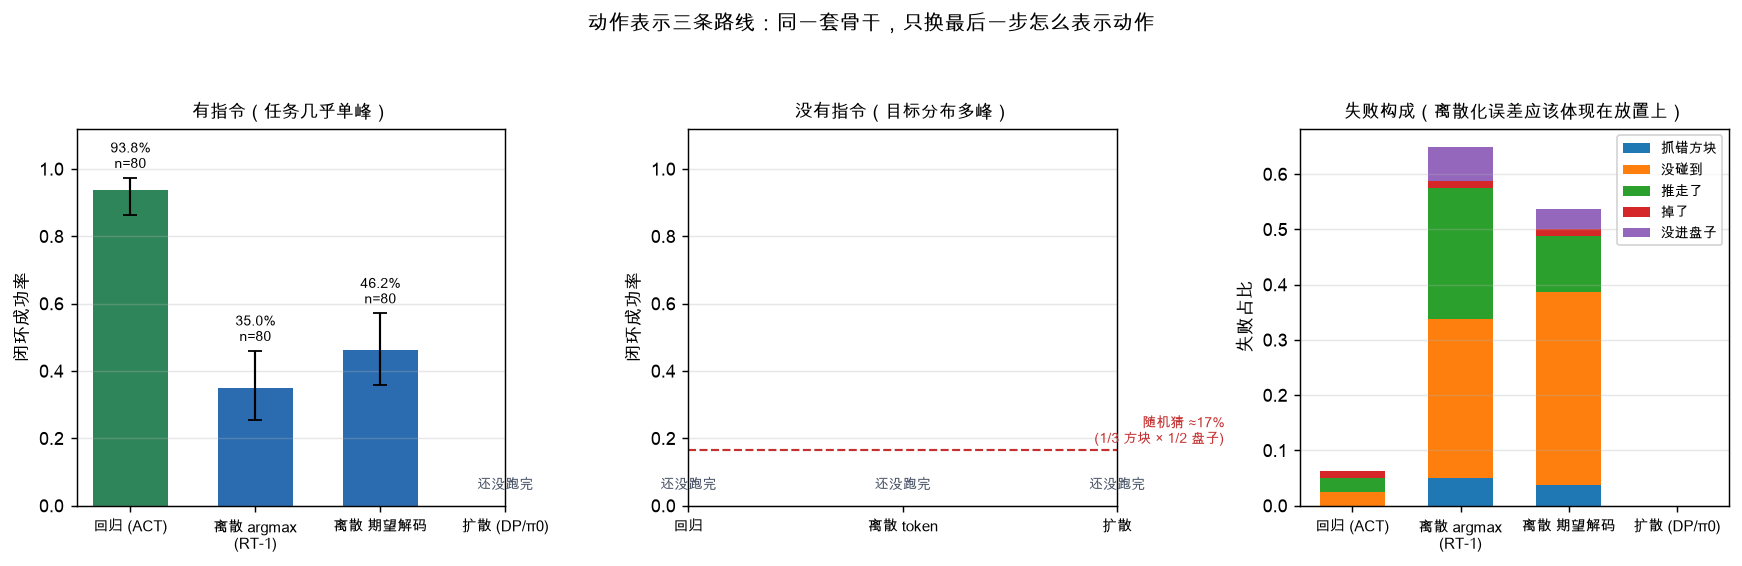
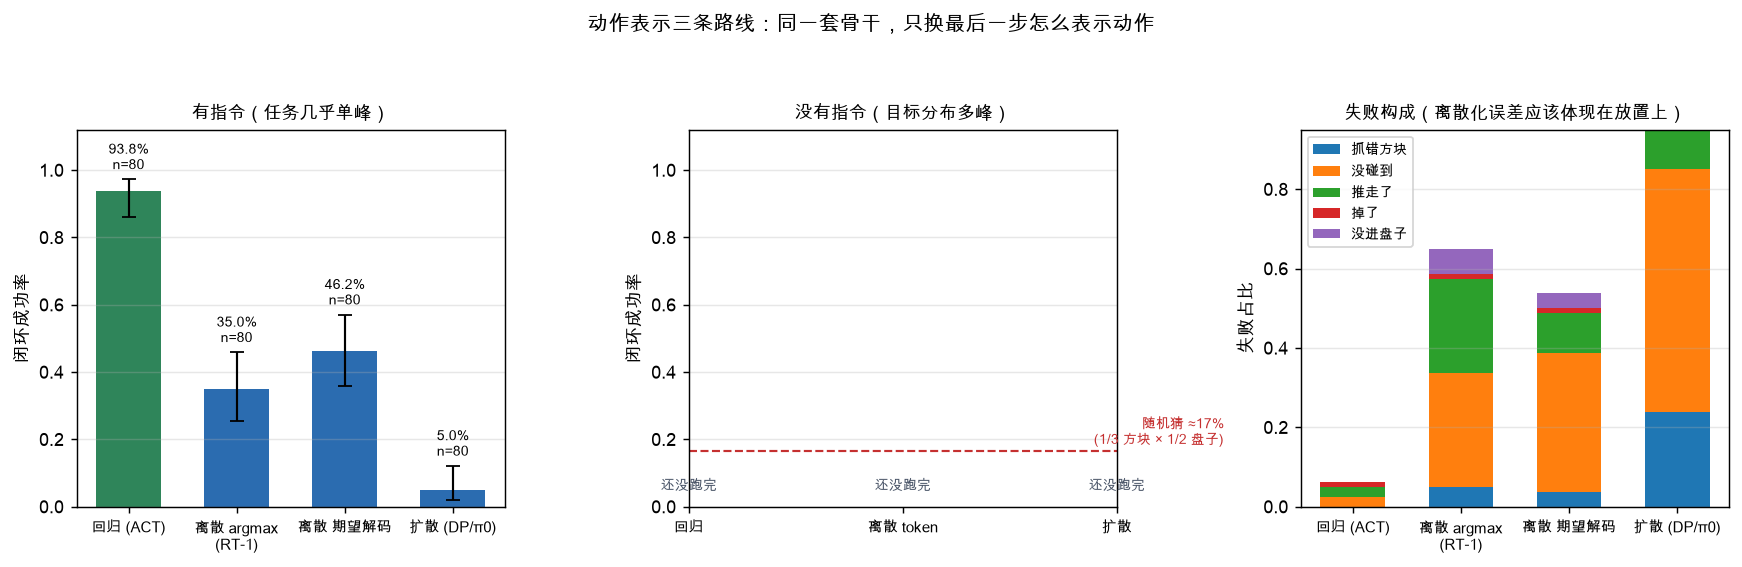
Diffusion policy is not reproducible across evals: 3.8% vs 5.0% on identical seeds

diff --git a/notes/17-动作表示三条路线.md b/notes/17-动作表示三条路线.md
@@ -10,7 +10,7 @@
 | **回归（ACT）** | **93.8%** | 86.2%–97.3% | — |
 | 离散 token，argmax 解码（RT-1） | 35.0% | 25.5%–45.9% | p < 0.001 |
 | 离散 token，期望解码 | 46.2% | 35.7%–57.1% | p < 0.001 |
-| 扩散，10 步 DDIM（DP / π0） | 3.8% | 1.3%–10.5% | p < 0.001 |
+| 扩散，10 步 DDIM（DP / π0） | 3.8% / 5.0% | 1.3%–10.5% | p < 0.001 |
 
 **预测错得很彻底**：不是"差别不大"，是差 60–90 个百分点。
 下面是把每一条的机制都量出来的过程。
@@ -69,7 +69,17 @@
 
 **离散表示在这个任务上就停在 46% 左右。**
 
-## 扩散头：3.8%，而且不是解码的问题
+### 顺带：扩散策略连"重复评测"都不可复现
+
+同一个模型、同一批 episode 种子、同样的设置，两次评测得到 **3.8% 和 5.0%**——
+不是四舍五入的差别，是 3/80 和 4/80。而回归头和离散头两次评测**逐局完全一致**。
+
+原因就是采样：每一步都从新噪声出发。这带来一个实际后果——
+**随机策略的评测必须重复多次取平均**，否则连"和自己比"都不成立。
+本项目其余所有结论都建立在"同种子可复现"这个前提上（`notes/05` 量过混沌翻转只有 5%），
+到了扩散头这个前提就不成立了。
+
+## 扩散头：3.8–5.0%，而且不是解码的问题
 
 先排除采样设置：
 

diff --git a/docs/SUMMARY.md b/docs/SUMMARY.md
@@ -1,4 +1,4 @@
-# StarVLA 实验总结（2026-08-24 23:18）
+# StarVLA 实验总结（2026-08-24 23:30）
 
 ## 基线
 
@@ -32,6 +32,7 @@
 | 回归 (ACT) | **93.8%** | 86%–97% | 0 | 2 | 2 | 1 | 0 |
 | 离散 argmax (RT-1) | **35.0%** | 25%–46% | 4 | 23 | 19 | 1 | 5 |
 | 离散 期望解码 | **46.2%** | 36%–57% | 3 | 28 | 8 | 1 | 3 |
+| 扩散 (DP/π0) | **5.0%** | 2%–12% | 19 | 49 | 8 | 0 | 0 |
 
 （n=80 局。预注册的预测是「三者差别不大，都在 60–80%」——被推翻了。机制见 `notes/17`。）
 
